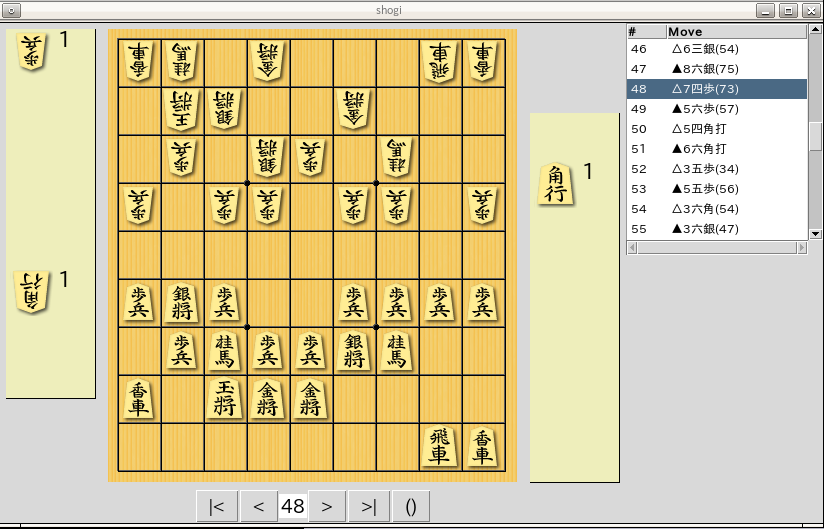
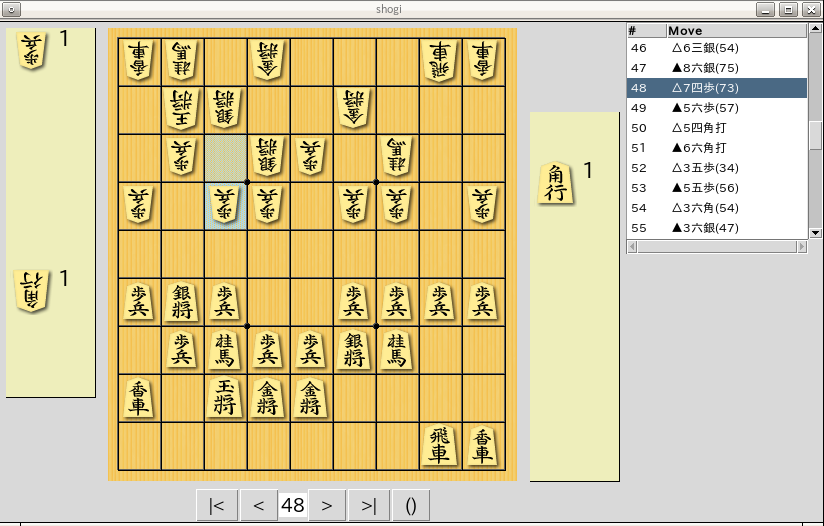
Add highlighting last move

diff --git a/main.py b/main.py
@@ -12,10 +12,25 @@ import psn
 import mobakif
 import shogi
 
-def update(position, ui):
+def update(position, movelog, ui):
+    t = position.step - 1
+    lastmove = None
+    if t != -1:
+        lastmove = movelog.data[t]
     for i, row in enumerate(position.square):
         for j, t in enumerate(row):
             ui.position.square.take(i, j)
+            ui.position.square.clear_style(i, j)
+            if lastmove:
+                if lastmove.src:
+                    if lastmove.src.row == i and lastmove.src.col == j:
+                        ui.position.square.set_style(ui.piece_type['p'],
+                            lastmove.src.row, lastmove.src.col)
+                if lastmove.dst:
+                    if lastmove.dst.row == i and lastmove.dst.col == j:
+                        ui.position.square.set_style(ui.piece_type['p'],
+                            lastmove.dst.row, lastmove.dst.col,
+                            stipple='gray75')
             if t != '':
                 ui.position.square.put(ui.piece_type[t], i, j)
     for color, data in position.inhand.items():
@@ -43,7 +58,10 @@ if __name__ == '__main__':
     position = shogi.Position()
     movelog = shogi.Movelog()
 
-    s = 'lnsgkgsnl/1r5b1/ppppppppp/9/9/9/PPPPPPPPP/1B5R1/LNSGKGSNL b -'
+    if len(sys.argv) >= 3:
+        s = sys.argv[2]
+    else:
+        s = 'lnsgkgsnl/1r5b1/ppppppppp/9/9/9/PPPPPPPPP/1B5R1/LNSGKGSNL b -'
     position.load(sfen.decoder(s))
 
     if logfile.endswith('.usi'):
@@ -69,7 +87,7 @@ if __name__ == '__main__':
         ui.movelog.tree.selection_set(item)
         ui.movelog.tree.focus(item)
         ui.movelog.tree.see(item)
-        update(position, ui)
+        update(position, movelog, ui)
 
     def move_last():
         movelog.goto(position, len(movelog.data) - 1)
@@ -79,7 +97,7 @@ if __name__ == '__main__':
         ui.movelog.tree.selection_set(item)
         ui.movelog.tree.focus(item)
         ui.movelog.tree.see(item)
-        update(position, ui)
+        update(position, movelog, ui)
 
     def move_back():
         movelog.back(position, 1)
@@ -89,7 +107,7 @@ if __name__ == '__main__':
         ui.movelog.tree.selection_set(item)
         ui.movelog.tree.focus(item)
         ui.movelog.tree.see(item)
-        update(position, ui)
+        update(position, movelog, ui)
 
     def move_forward():
         movelog.forward(position, 1)
@@ -99,14 +117,14 @@ if __name__ == '__main__':
         ui.movelog.tree.selection_set(item)
         ui.movelog.tree.focus(item)
         ui.movelog.tree.see(item)
-        update(position, ui)
+        update(position, movelog, ui)
 
     def move_goto(event):
         sym = ui.movelog.tree.focus()
         step = ui.movelog.tree.index(sym)
         movelog.goto(position, step)
         ui.control.curr_v.set(step)
-        update(position, ui)
+        update(position, movelog, ui)
 
     ui.control.first.configure(command=move_first)
     ui.control.last.configure(command=move_last)
@@ -114,6 +132,6 @@ if __name__ == '__main__':
     ui.control.next1.configure(command=move_forward)
     ui.movelog.tree.bind('<ButtonRelease-1>', move_goto)
 
-    update(position, ui)
+    update(position, movelog, ui)
 
     ui.run()

diff --git a/tkui.py b/tkui.py
@@ -23,7 +23,7 @@ class Square(tk.Frame):
         w = self.bg_img.width()
         h = self.bg_img.height()
         self.canvas = tk.Canvas(self, width=w, height=h)
-        self.canvas.create_image(0, 0, anchor='nw', image=self.bg_img)
+        self.back = self.canvas.create_image(0, 0, anchor='nw', image=self.bg_img)
         self.canvas.create_image(0, 0, anchor='nw', image=self.sq_img)
         self.canvas.grid(row=1, column=0)
         self.padx = theme.config['board']['padding']['x']
@@ -42,6 +42,21 @@ class Square(tk.Frame):
     def take(self, row, col):
         tag = '{},{}'.format(row, col)
         self.canvas.delete(tag)
+
+    def set_style(self, piece, row, col, fill='lightblue', stipple='gray50'):
+        img = piece['image']
+        x = self.padx + img.width() * col
+        y = self.pady + img.height() * row
+        tag = '{},{} style'.format(row, col)
+        r = self.canvas.create_rectangle(x, y, x + img.width(),
+                y + img.height(), tag=tag, fill=fill, stipple=stipple)
+        self.canvas.tag_lower(r)
+        self.canvas.tag_lower(self.back)
+
+    def clear_style(self, row, col):
+        tag = '{},{} style'.format(row, col)
+        self.canvas.delete(tag)
+
 
 class InHand(tk.Frame):
     def __init__(self, parent, theme):
